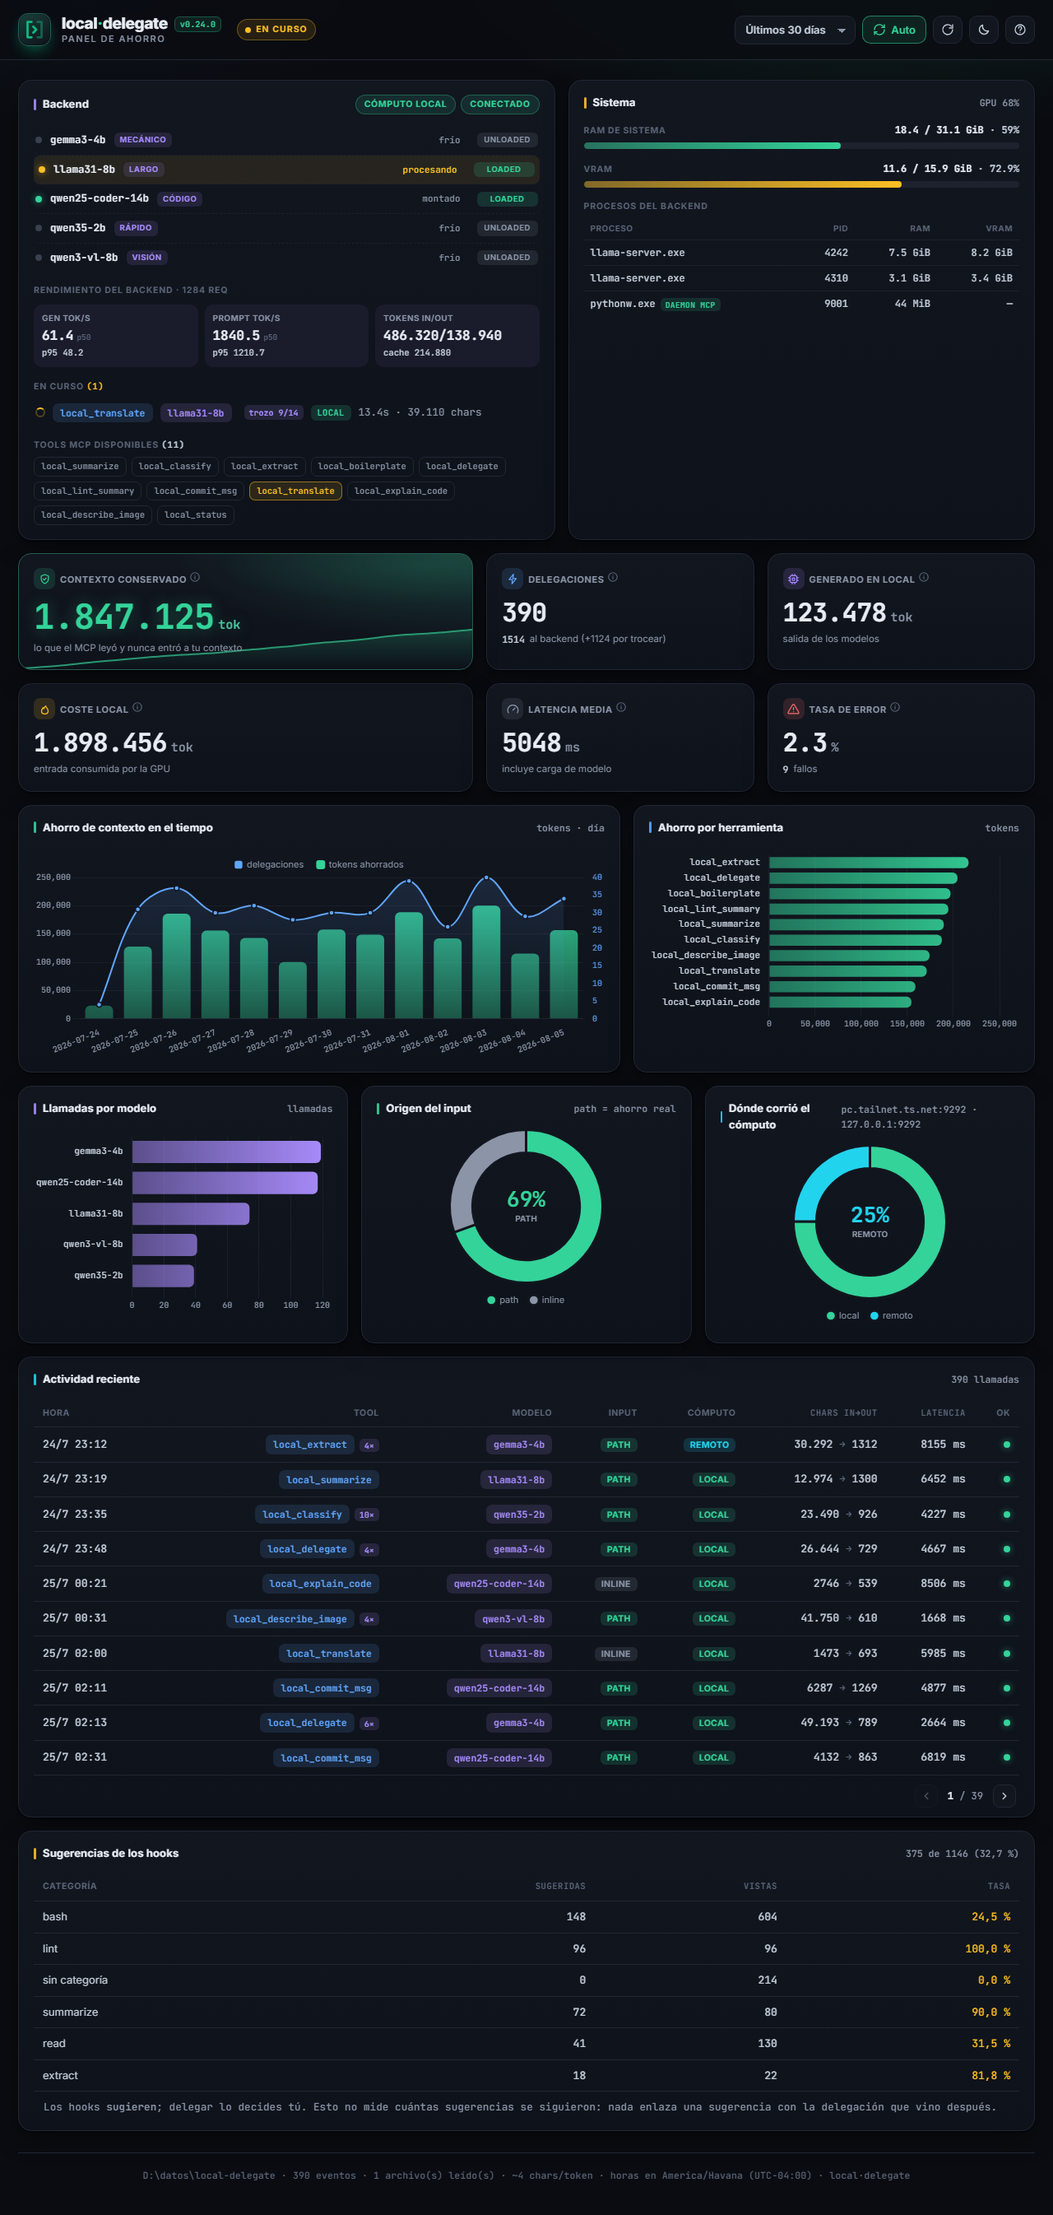
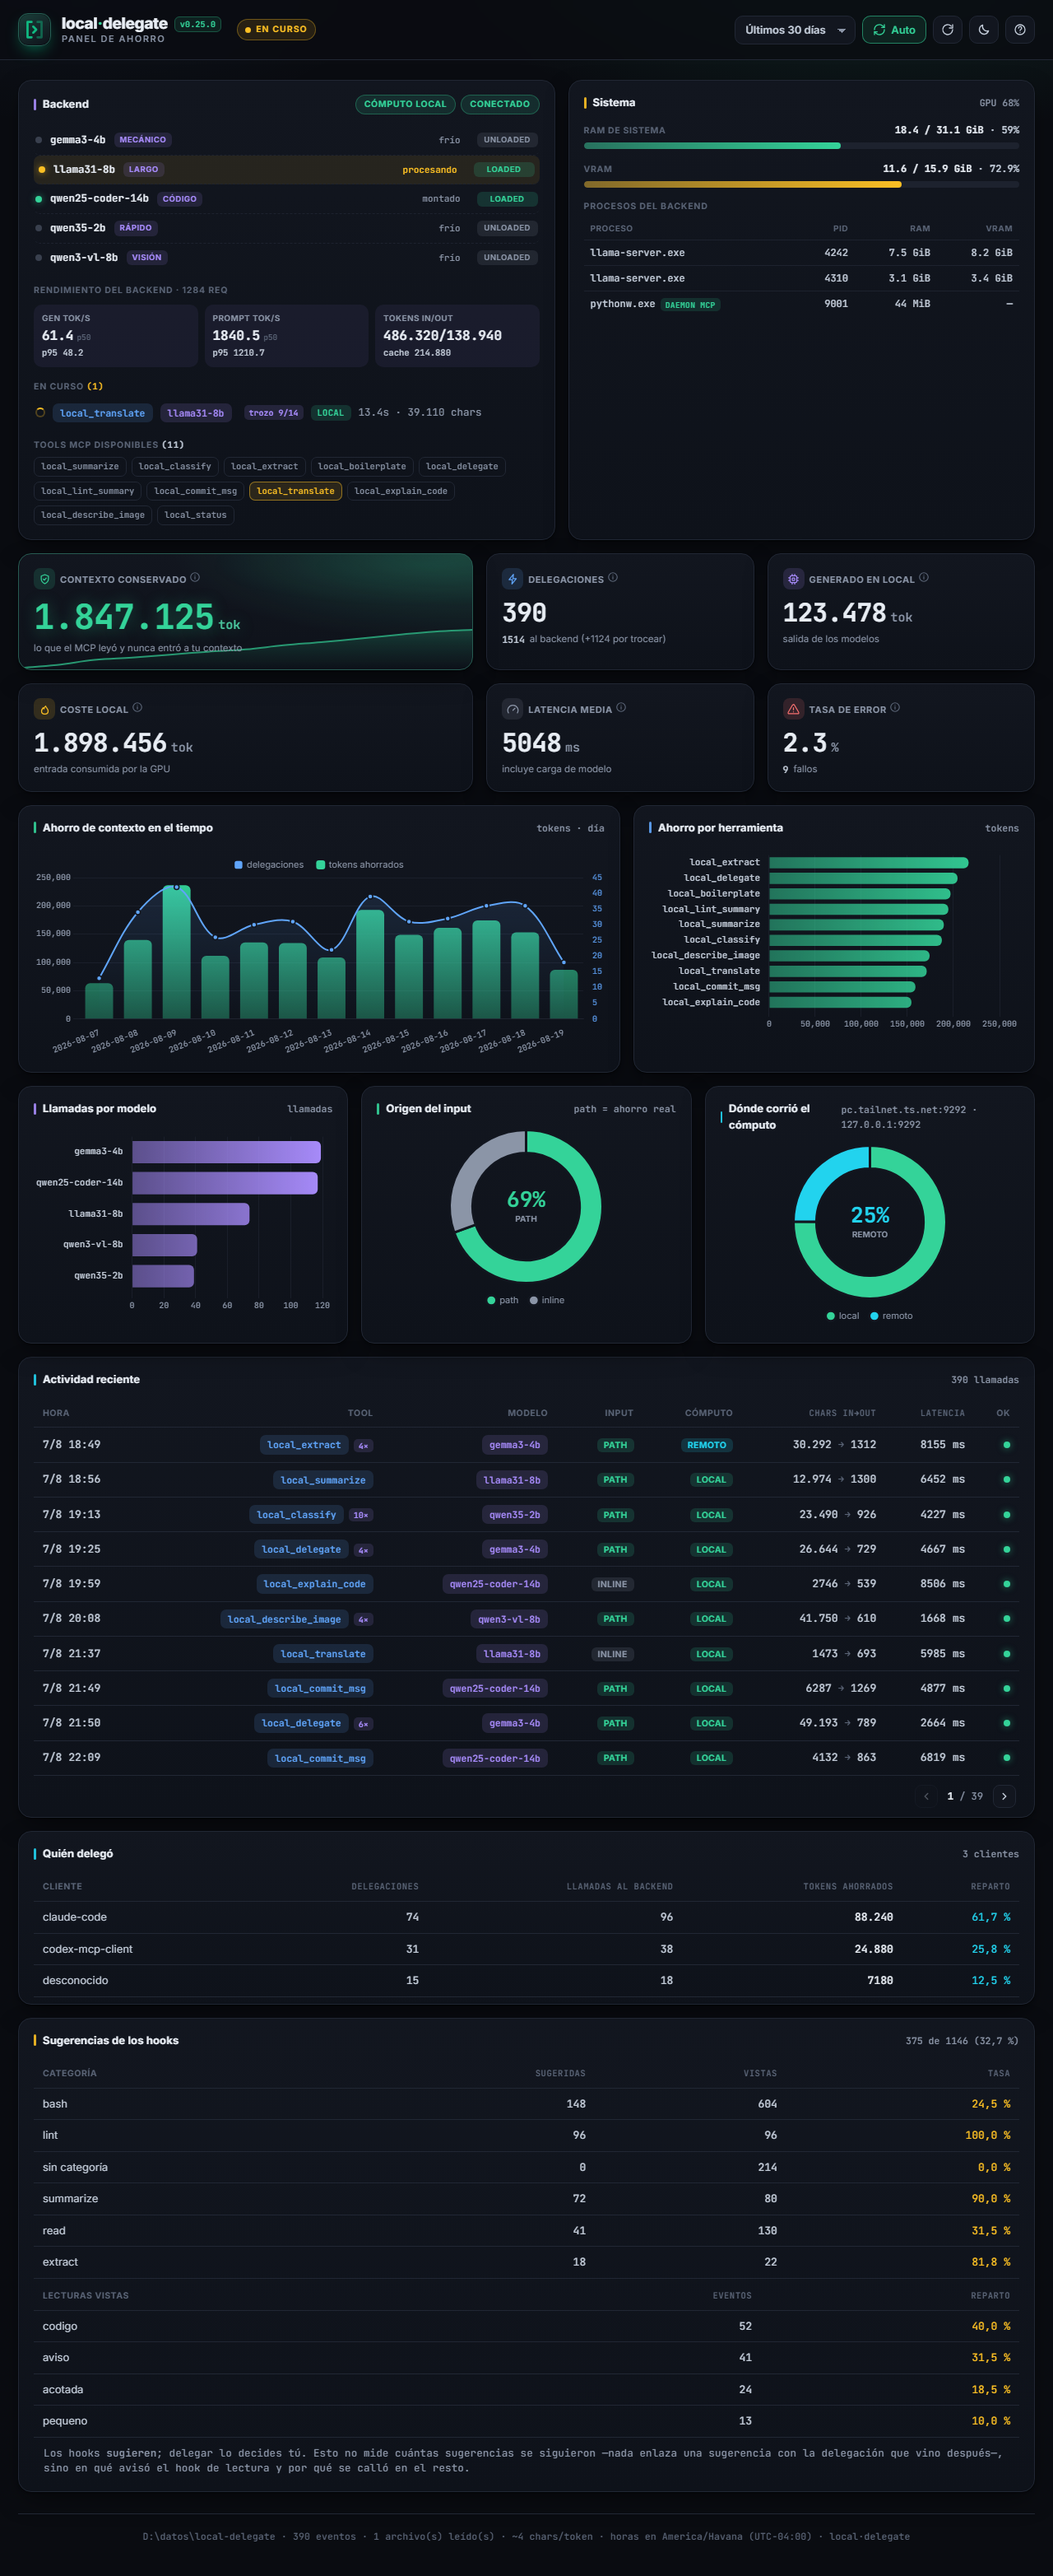
chore(release): 0.25.0 (#151)
Cierra la seccion Unreleased y sube la version en los cuatro sitios donde vive.

Lleva el arreglo de punteria del hook de lectura (#146), el desglose por cliente
y la tarjeta de punteria del panel (#149), y la actualizacion de dependencias
que cerro la alerta high de cryptography (#148).

La captura del README se regenera aqui, que es donde el manifiesto la ata a la
version: enseña ya las dos tarjetas nuevas.

diff --git a/CHANGELOG.md b/CHANGELOG.md
@@ -6,6 +6,8 @@ y el proyecto usa [Versionado Semántico](https://semver.org/lang/es/).
 
 ## [Unreleased]
 
+## [0.25.0] - 2026-08-18
+
 ### Added
 - **El panel dice quién delegó.** Cada línea del log de uso lleva ahora el nombre del cliente MCP
   que pidió la llamada, y `/api/stats` trae el desglose por cliente. El KPI de ahorro es
@@ -1606,7 +1608,8 @@ y el proyecto usa [Versionado Semántico](https://semver.org/lang/es/).
 - Empaquetado para PyPI (`local-delegate-mcp`) ejecutable con `uvx`; `server.json` para el
   registro oficial de MCP.
 
-[Unreleased]: https://github.com/ZahiriNatZuke/local-delegate/compare/v0.24.0...HEAD
+[Unreleased]: https://github.com/ZahiriNatZuke/local-delegate/compare/v0.25.0...HEAD
+[0.25.0]: https://github.com/ZahiriNatZuke/local-delegate/compare/v0.24.0...v0.25.0
 [0.24.0]: https://github.com/ZahiriNatZuke/local-delegate/compare/v0.23.0...v0.24.0
 [0.23.0]: https://github.com/ZahiriNatZuke/local-delegate/compare/v0.22.1...v0.23.0
 [0.22.1]: https://github.com/ZahiriNatZuke/local-delegate/compare/v0.22.0...v0.22.1
